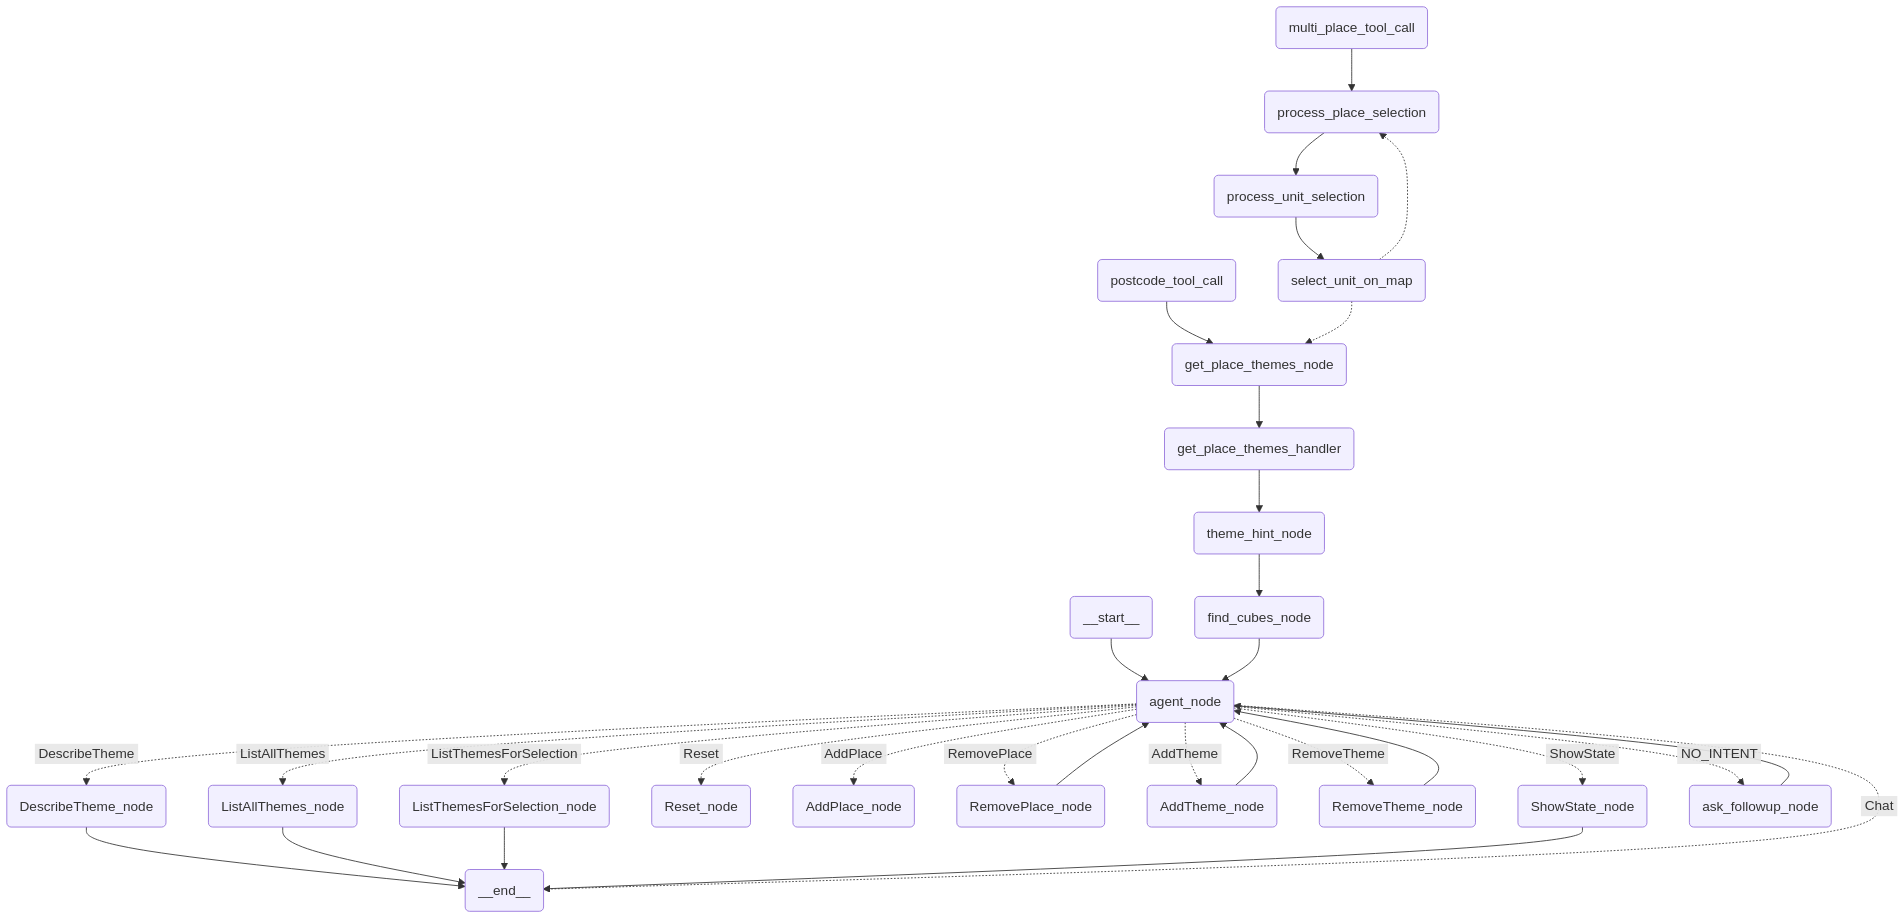
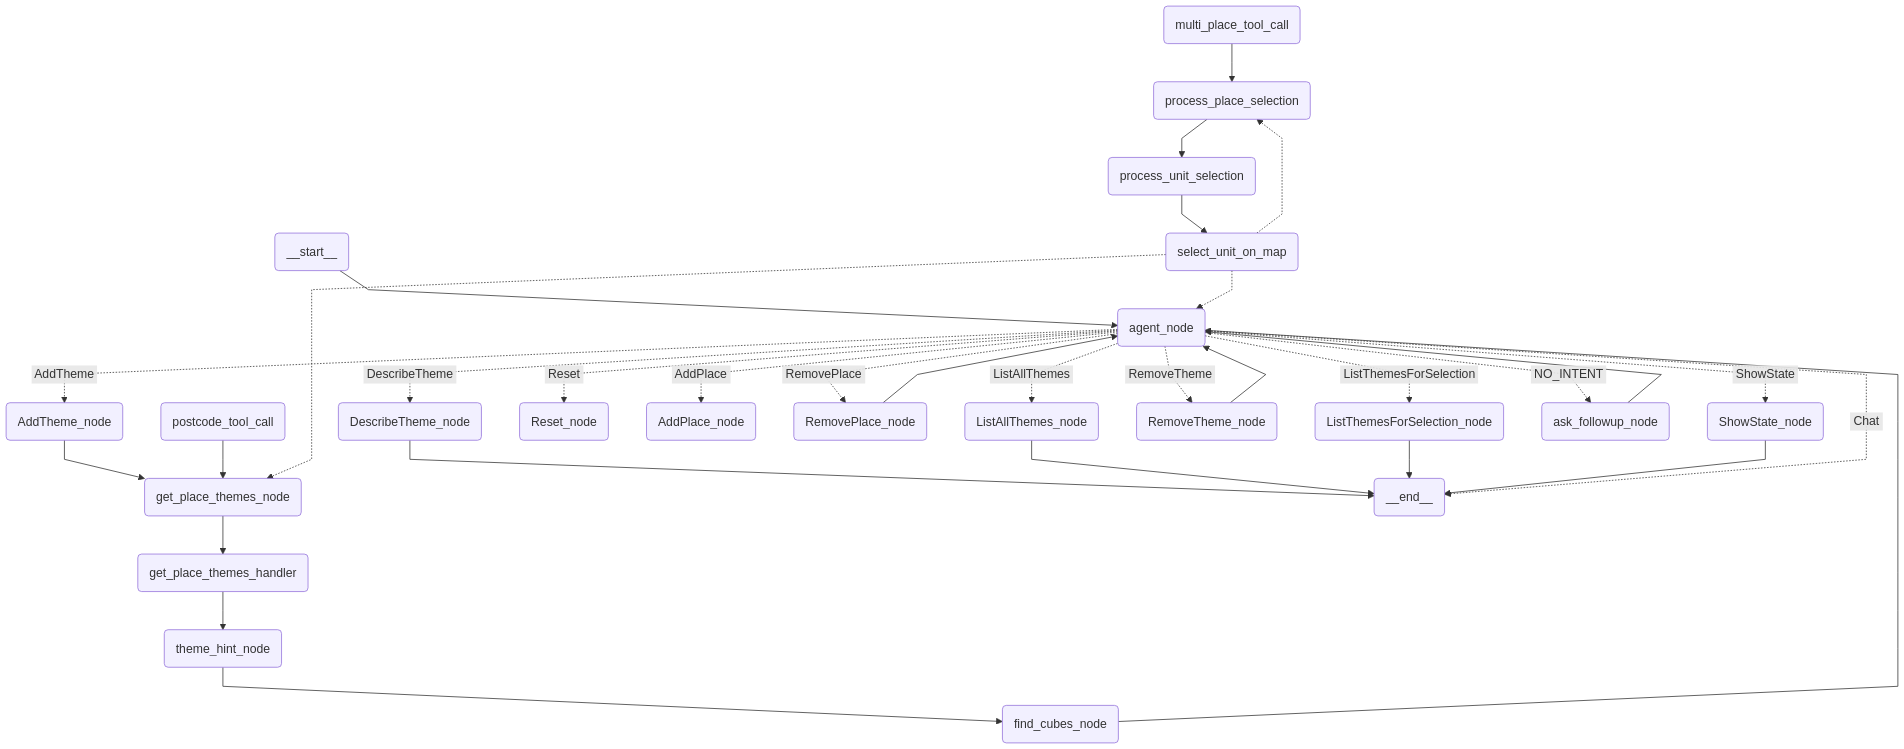
fixed chat

diff --git a/src/callbacks/chat.py b/src/callbacks/chat.py
@@ -86,6 +86,8 @@ from dash import Input, Output, State, ALL, ctx
 import dash_bootstrap_components as dbc
 import logging
 
+from time import monotonic
+
 # Import CycleBreakerInput for managing circular dependencies in callbacks if needed
 from dash_extensions.enrich import CycleBreakerInput
 
@@ -97,6 +99,26 @@ from langchain_core.messages import AIMessage, HumanMessage, AIMessageChunk, Too
 # Set up logging for this module
 logger = logging.getLogger(__name__)
 
+
+class StreamThrottler:
+    """Batch UI updates so we don’t call set_props more than ~10× s‑1."""
+    def __init__(self, interval: float = 0.10):
+        self.interval = interval
+        self._last_flush = monotonic()
+
+    def ready(self) -> bool:
+        return monotonic() - self._last_flush >= self.interval
+
+    def mark_flushed(self):
+        self._last_flush = monotonic()
+
+def _msg_to_div(msg, idx: int):
+    if isinstance(msg, HumanMessage):
+        return html.Div(msg.content, className="speech-bubble user-bubble", key=f"user-{idx}")
+    if isinstance(msg, AIMessage):
+        return html.Div(msg.content, className="speech-bubble ai-bubble",   key=f"ai-{idx}")
+    # Skip ToolMessage (or style differently)
+    return None
 
 def register_chat_callbacks(app, compiled_workflow, background_callback_manager):
     """
@@ -258,30 +280,42 @@ def register_chat_callbacks(app, compiled_workflow, background_callback_manager)
 
             # --- Execute the LangGraph workflow using asynchronous streaming ---
             full_ai_response = "" # Accumulator for the complete AI response message
+            truncated_ai_response = "" # For displaying truncated messages
             final_state_values = {} # To store the final workflow state values after streaming
             try:
+                throttler = StreamThrottler(interval=0.10)
                 # Call the workflow's astream method to get events (messages, state updates, etc.)
                 async for msg, metadata in compiled_workflow.astream(
                     workflow_input,    # Pass the prepared input (or None if resuming/retriggering)
                     config=current_config, # Pass the thread configuration
                     stream_mode="messages" # Request message-based streaming events
-                ):
+                    ):
                     # Check if the event contains a message chunk from the AI
                     if msg.content and isinstance(msg, AIMessageChunk):
                         full_ai_response += msg.content
+                        if "'intent': 'Chat', 'arguments': {'text': '" in full_ai_response or '"intent": "Chat", "arguments": {"text": "' in full_ai_response:
+                            truncated_ai_response = full_ai_response.split("'intent': 'Chat', 'arguments': {'text': '")[1] if "'intent': 'Chat', 'arguments': {'text': '" in full_ai_response else full_ai_response.split('"intent": "Chat", "arguments": {"text": "')[1]
+
+                            if truncated_ai_response:
+                                truncated_ai_response = truncated_ai_response.split("'}")[0] if "'intent': 'Chat', 'arguments': {'text': '" in full_ai_response else truncated_ai_response.split('"}')[0]
+
                         if not history or not isinstance(history[-1], html.Div) \
                         or "ai-bubble" not in history[-1].className:
                             # first chunk → start a new bubble
-                            history.append(html.Div(full_ai_response,
-                                                    className="speech-bubble ai-bubble"))
+                            if truncated_ai_response != "":
+                                history.append(html.Div(truncated_ai_response,
+                                                        className="speech-bubble ai-bubble"))
                         else:
                             # subsequent chunk → update last bubble
-                            history[-1].children = full_ai_response
-                        set_props("chat-display", {"children": history})
+                            history[-1].children = truncated_ai_response
+                        if throttler.ready():             # only every 100 ms
+                            set_props("chat-display", {"children": history})
+                            throttler.mark_flushed()
                     # Note: Depending on the LangGraph version and stream_mode, you might get
                     # other types of events here containing state updates. This example primarily
                     # focuses on streaming AIMessageChunks for progressive text display.
-
+                    set_props("chat-display", {"children": history})
+                
             except Exception as stream_exc:
                 logger.error(f"Error during workflow stream: {stream_exc}", exc_info=True)
                 # Add an error message to the chat history
@@ -296,40 +330,22 @@ def register_chat_callbacks(app, compiled_workflow, background_callback_manager)
                 final_state_values = final_state.values if final_state else {} # Extract the state dictionary
                 logger.debug({"event": "workflow_state_after_stream", "final_state_values": final_state_values})
 
-                # --- *** RECONSTRUCT CHAT HISTORY FROM FINAL WORKFLOW STATE *** ---
-                final_chat_history_components = []
-                all_final_messages = final_state_values.get("messages", [])
+                already = len(history)
+                all_msgs = final_state_values.get("messages", [])
 
-                if all_final_messages:
-                    logger.debug(f"Reconstructing chat history from {len(all_final_messages)} final messages in workflow state.")
-                    for i, msg in enumerate(all_final_messages):
-                        component = None
-                        if isinstance(msg, HumanMessage):
-                            component = html.Div(f"{msg.content}", className="speech-bubble user-bubble", key=f"msg-{i}-user")
-                        elif isinstance(msg, (AIMessage, AIMessageChunk)):
-                            # Check content is not empty or just whitespace
-                            if msg.content and msg.content.strip():
-                                component = html.Div(f"{msg.content}", className="speech-bubble ai-bubble", key=f"msg-{i}-ai")
-                        elif isinstance(msg, ToolMessage):
-                            # Decide whether to display tool messages or skip
-                            # component = html.Div(f"[Tool Call: {msg.tool_call.get('name', 'Unknown')}]", className="text-muted small", key=f"msg-{i}-tool")
-                            pass # Skipping ToolMessage display in chat history for now
-                        else:
-                            logger.warning(f"Unhandled message type in final state: {type(msg)}")
+                # create divs for *new* messages only
+                new_divs = [
+                    _msg_to_div(m, i) for i, m in enumerate(all_msgs[already:], start=already)
+                    if _msg_to_div(m, i) is not None
+                ]
 
-                        if component:
-                            final_chat_history_components.append(component)
-                else:
-                    # Fallback if no messages in final state (unlikely)
-                    logger.warning("No messages found in final workflow state to reconstruct history.")
-                    final_chat_history_components = initial_chat_history[:] # Use original history
-
-                    # If an AI response was streamed, replace the temporary accumulating div with the final complete message div
-                    # if full_ai_response != "":
-                        # final_ai_message_div = html.Div(f"{full_ai_response}", className="speech-bubble ai-bubble")
-                        # history.append(final_ai_message_div) # Add the final, complete AI message to the history
-                        # app_state_async["messages"] = history # Update app_state with the reconstructed history
-                history = final_chat_history_components
+                if new_divs and not is_retrigger:
+                    history.extend(new_divs)                       # append, don’t replace
+                    app_state_async["render_cursor"] = len(all_msgs)
+                    # ensure at least one final flush (pairs with throttling from task 1)
+                    set_props("chat-display", {"children": history})
+                
+                # history = final_chat_history_components
                 app_state_async["messages"] = history
                 # Reset button rendering list for this turn
                 buttons_to_render_async = []
@@ -514,10 +530,29 @@ def register_chat_callbacks(app, compiled_workflow, background_callback_manager)
         logger.debug({"event": "update_chat_start (sync part)", "trigger": ctx_trigger, "is_retrigger": is_retrigger_event})
         chat_history = chat_history or [] # Initialize chat history if empty
 
+        # ------------------------------------------------------------------
+        #  🌟  First page‑load safety  (rebuild once if browser refreshed)
+        # ------------------------------------------------------------------
+        if (not chat_history) and app_state and app_state.get("render_cursor", 0):
+            try:
+                # we’re in a **sync** context → use asyncio.run to call the async API
+                state_snapshot = asyncio.run(
+                    compiled_workflow.aget_state({"configurable": {"thread_id": thread_id}})
+                )
+                all_msgs = state_snapshot.values.get("messages", []) if state_snapshot else []
+                chat_history = [
+                    _msg_to_div(m, i) for i, m in enumerate(all_msgs)
+                    if _msg_to_div(m, i) is not None
+                ]
+            except Exception as exc:
+                logger.warning(f"Could not rebuild chat after refresh: {exc}")
+                chat_history = []
+                
         if user_input and user_input.strip() and "send-button" in ctx_trigger and not is_retrigger_event:
             user_message_div = html.Div(f"{user_input}", className="speech-bubble user-bubble")
             chat_history.append(user_message_div)
             set_props("chat-display", {"children": chat_history})
+            app_state["render_cursor"] = len(chat_history) # Update the render cursor in app_state
 
         # Handle Reset Button Click
         if "reset-button" in ctx_trigger:

diff --git a/src/workflow.py b/src/workflow.py
@@ -1152,15 +1152,10 @@ def create_workflow(lg_state: TypedDict):
             "NO_INTENT": "ask_followup_node",
         },
     )
-
-    for n in [
-        "RemovePlace_node", "RemoveTheme_node"
-        ]:
-        workflow.add_edge(n, "agent_node")
         
     for n in [
         "ShowState_node", "ListThemesForSelection_node", "ListAllThemes_node",
-        "DescribeTheme_node",
+        "DescribeTheme_node", "RemovePlace_node", "RemoveTheme_node"
     ]:
         workflow.add_edge(n, END)
 

diff --git a/src/callbacks/visualization.py b/src/callbacks/visualization.py
@@ -8,7 +8,7 @@ import plotly.express as px
 from dash import no_update
 from dash.dependencies import Input, Output, State
 from dash.exceptions import PreventUpdate
-from tools import get_all_cube_data, get_cube_data # Make sure get_cube_data is imported if used, or remove if not
+from tools import get_all_cube_data
 
 # This file contains all the callbacks for data visualization
 def register_visualization_callbacks(app, compiled_workflow):

diff --git a/src/tools.py b/src/tools.py
@@ -304,7 +304,8 @@ def get_all_cube_data(
         d.cellref,
         d.g_data as value,
         m.ncuberef as cube_id,
-        ncube.labl as cube_name
+        ncube.labl as cube_name,
+        ncube.text as cube_text
     FROM 
         hgis.g_data d
         JOIN hgis.g_data_map m ON d.cellref = m.cellref

diff --git a/src/stores.py b/src/stores.py
@@ -30,6 +30,7 @@ app_state_data = {
     "selection_idx": None,
     "retrigger_chat": False,
     "show_visualization": False,
+    "render_cursor": 0,
 }
 
 def create_stores():
